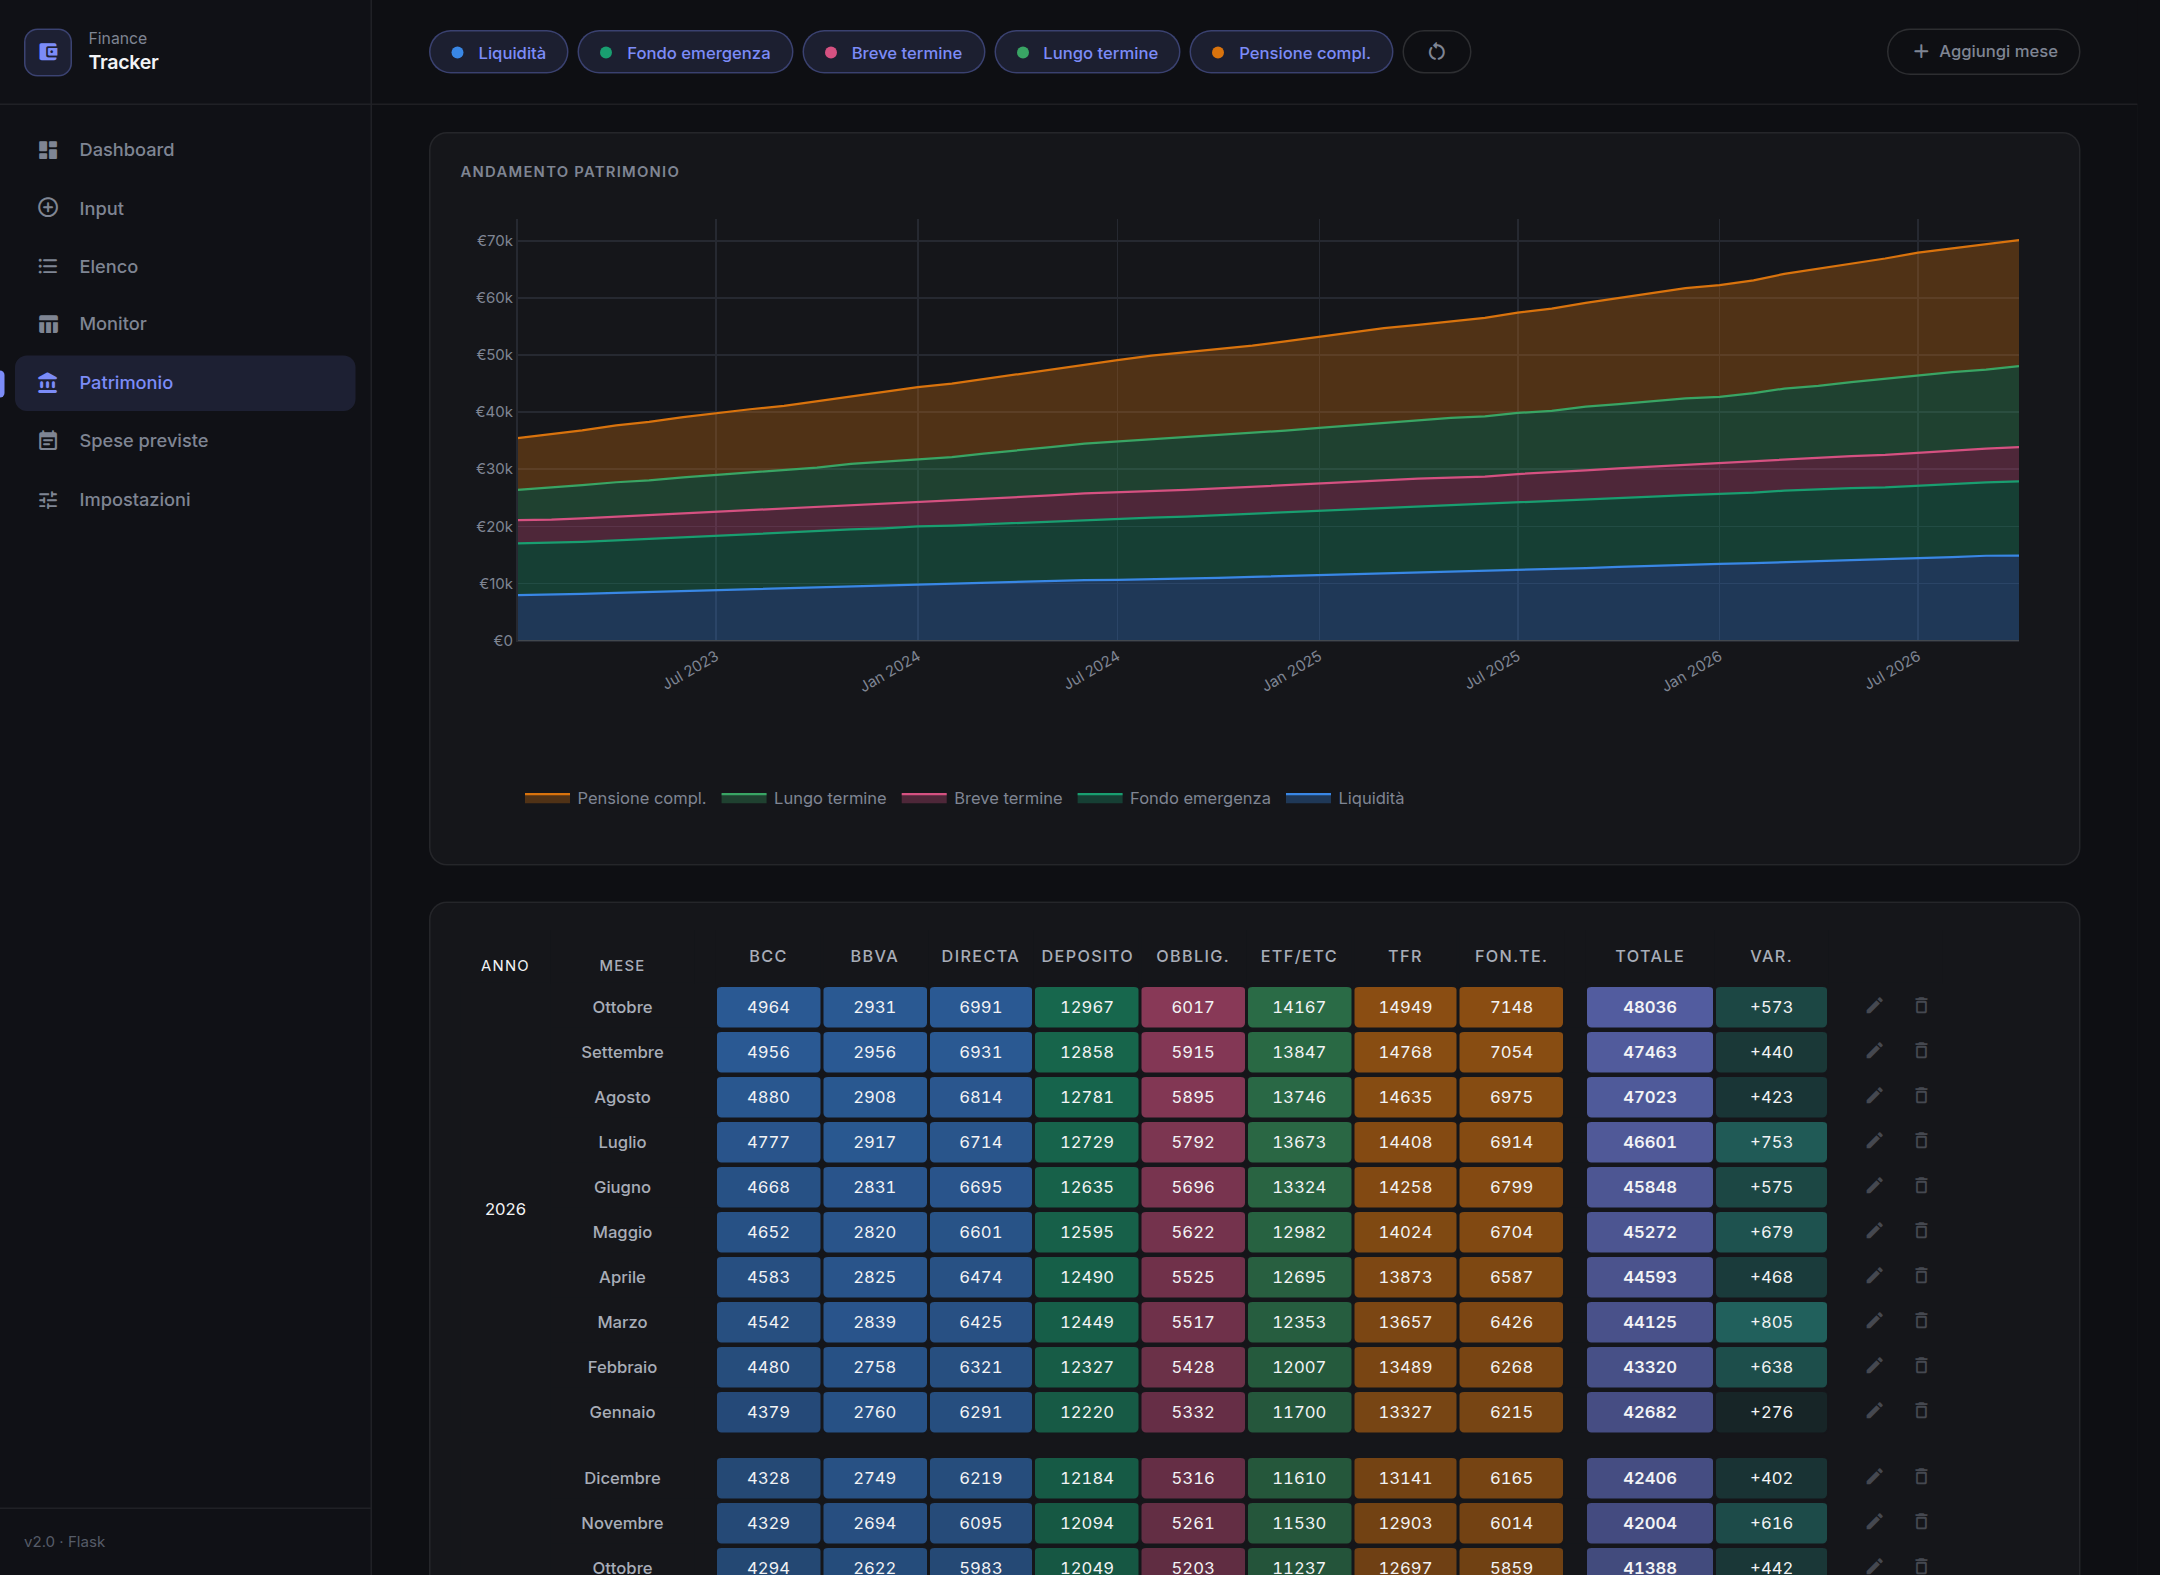
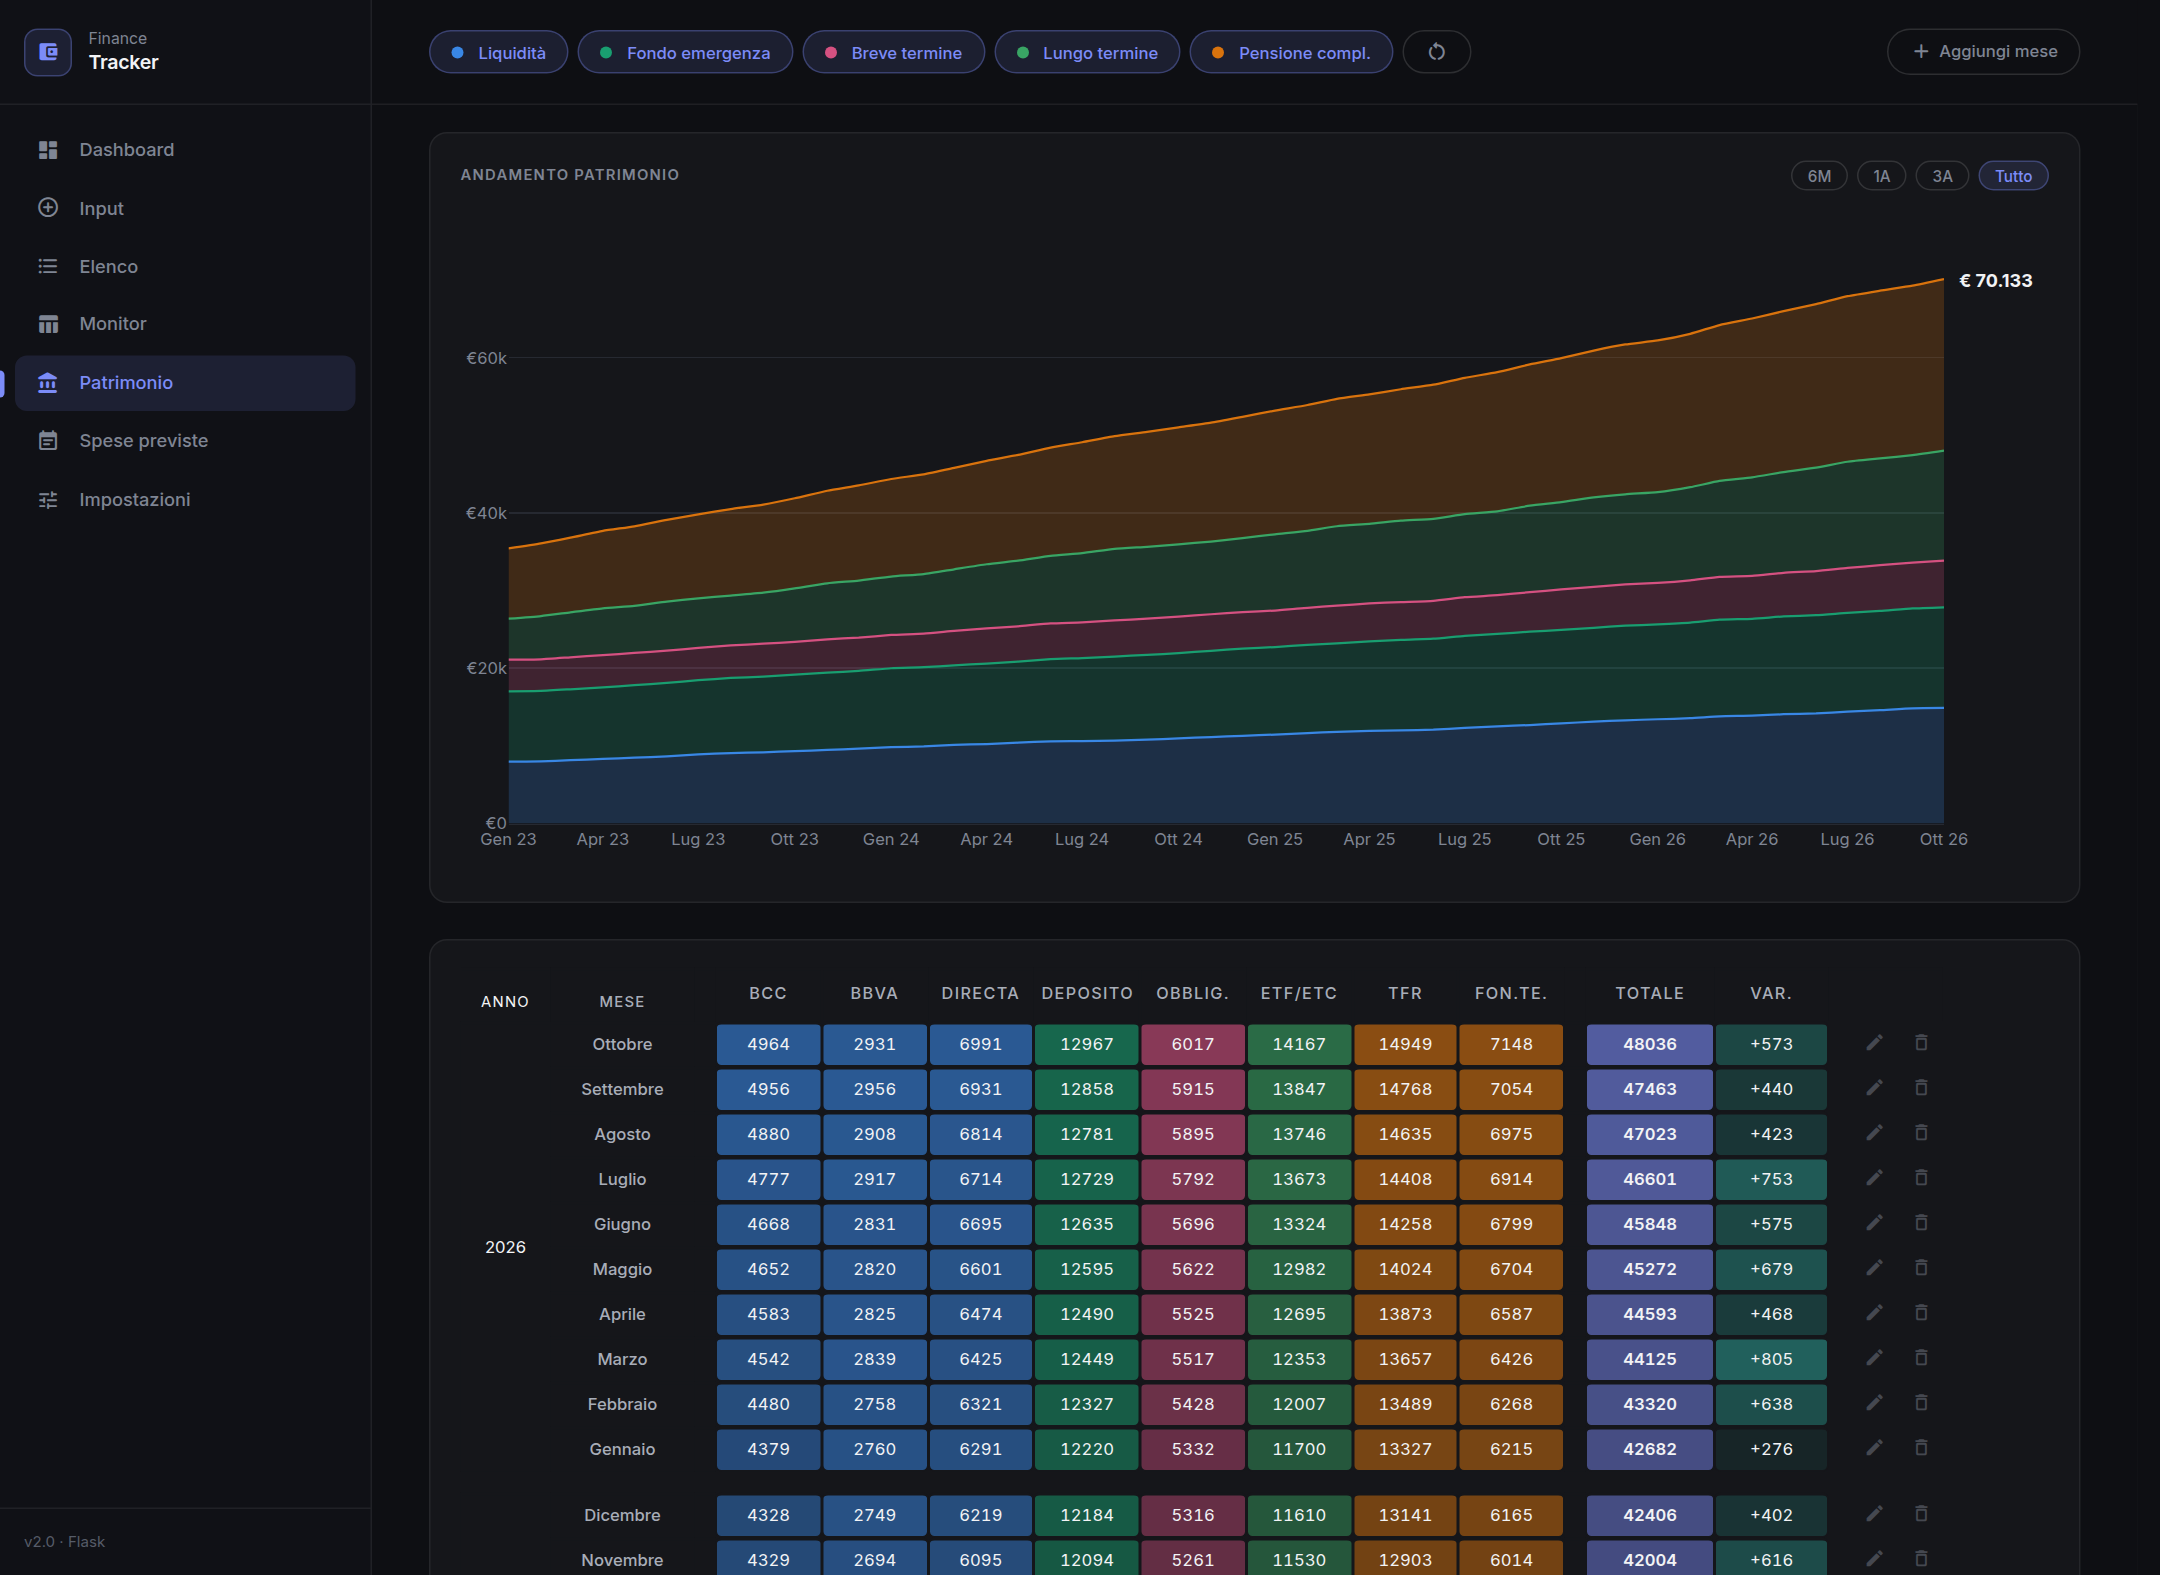
Patrimonio: grafico modernizzato (linee morbide, totale sull'ultimo punto, periodo 6M/1A/3A/Tutto) e più leggibile su smartphone

diff --git a/templates/patrimonio.html b/templates/patrimonio.html
@@ -1,8 +1,12 @@
 {% extends "base.html" %}
 {% block title %}Patrimonio — Finance Tracker{% endblock %}
 
+{% block head %}
+<script src="https://cdn.plot.ly/plotly-locale-it-2.32.0.js"></script>
+{% endblock %}
+
 {% block page_bar %}
-<div class="page-bar" id="el-bar">
+<div class="page-bar page-bar-scroll" id="el-bar">
     {% if rows %}
     <div class="period-btns" id="comp-toggles">
         {% for key, label in [('liquidita', 'Liquidità'), ('emergenza', 'Fondo emergenza'), ('breve', 'Breve termine'),
@@ -27,8 +31,16 @@
 {% else %}
 
 <div class="chart-card mb-24">
-    <div class="chart-title">Andamento patrimonio</div>
-    <div id="chart-patrimonio" style="height:420px"></div>
+    <div class="chart-title pat-chart-head">
+        <span>Andamento patrimonio</span>
+        <div class="period-btns" id="pat-range" style="margin:0">
+            {% for v, lab in [('6', '6M'), ('12', '1A'), ('36', '3A'), ('all', 'Tutto')] %}
+            <button type="button" class="period-btn {% if v == 'all' %}active{% endif %}" data-range="{{ v }}"
+                    style="padding:3px 10px;font-size:0.68rem;font-family:inherit">{{ lab }}</button>
+            {% endfor %}
+        </div>
+    </div>
+    <div id="chart-patrimonio"></div>
 </div>
 
 <div class="chart-card">
@@ -133,25 +145,13 @@
 const raw = {{ chart_data|safe }};
 const _PL = PALETTE.plot;
 const _PP = PALETTE.patrimonio;
-const CFG  = { responsive: true, displayModeBar: false };
-
-const BASE_LAYOUT = {
-    paper_bgcolor: _PL.bg, plot_bgcolor: _PL.bg,
-    font: { family: 'Inter, sans-serif', color: _PL.text, size: 11 },
-    margin: { l: 10, r: 20, t: 10, b: 50 },
-    xaxis: { gridcolor: _PL.grid, linecolor: _PL.grid, tickfont: { size: 10 }, tickangle: -30 },
-    yaxis: { gridcolor: _PL.grid, linecolor: _PL.grid, tickfont: { size: 10 }, tickprefix: '€', autorange: true, automargin: true },
-    legend: { orientation: 'h', y: -0.32, font: { size: 11 }, bgcolor: 'transparent' },
-    hovermode: 'x unified',
-    hoverlabel: { bgcolor: _PL.hover_bg, bordercolor: _PL.hover_border, font: { color: _PL.hover_text, size: 12 } },
-};
 
 function hexAlpha(hex, a) {
     const r = parseInt(hex.slice(1,3),16), g = parseInt(hex.slice(3,5),16), b = parseInt(hex.slice(5,7),16);
     return `rgba(${r},${g},${b},${a})`;
 }
 
-// Component definitions: key, label, color
+// Componenti: chiave, etichetta, colore (gli stessi delle pillole in alto e della tabella)
 const COMP_DEFS = [
     { key: 'liquidita',  label: 'Liquidità',         color: _PP.liquidita  },
     { key: 'emergenza',  label: 'Fondo emergenza',    color: _PP.conto      },
@@ -160,44 +160,72 @@ const COMP_DEFS = [
     { key: 'previdenza', label: 'Pensione compl.',    color: _PP.previdenza },
 ];
 
-// Build all stacked area traces (one per component)
-const allTraces = COMP_DEFS.map(c => ({
-    type: 'scatter', mode: 'lines',
-    stackgroup: 'one',
-    x: raw.labels, y: raw[c.key],
-    name: c.label,
-    fill: 'tonexty',
-    fillcolor: hexAlpha(c.color, 0.30),
-    line: { color: c.color, width: 1.5 },
-    hovertemplate: '€ %{y:.0f}<extra>' + c.label + '</extra>',
-    visible: true,
-}));
+const dates = raw.labels.map(l => l + '-01');           // 'YYYY-MM' -> primo del mese
+const fmtEur = v => '€ ' + Math.round(v).toLocaleString('it-IT');
+const mobileMQ = window.matchMedia('(max-width: 768px)');
+let rangeMonths = null;                                  // null = tutto lo storico
+
+// Finestra temporale scelta con le pillole 6M / 1A / 3A / Tutto.
+function visibleStart() {
+    if (!rangeMonths) return 0;
+    const last = new Date(dates[dates.length - 1]);
+    last.setMonth(last.getMonth() - rangeMonths);
+    const i = dates.findIndex(d => new Date(d) >= last);
+    return i < 0 ? 0 : i;
+}
 
 function renderChart() {
-    const checked = new Set(
-        Array.from(document.querySelectorAll('.comp-pill.active')).map(el => el.dataset.key)
-    );
-    const traces = allTraces.map(t => {
-        const key = COMP_DEFS.find(c => c.label === t.name).key;
-        return { ...t, visible: checked.has(key) ? true : 'legendonly' };
-    });
-    // "Totale" entry in the unified hover box: sum of only the currently shown
-    // categories. Width-0 line → no extra line drawn on the chart, but it still
-    // contributes its value to the x-unified hover tooltip.
-    const activeKeys = COMP_DEFS.filter(c => checked.has(c.key)).map(c => c.key);
-    const totals = raw.labels.map((_, i) =>
-        activeKeys.reduce((sum, k) => sum + (raw[k][i] || 0), 0)
-    );
+    const mobile = mobileMQ.matches;
+    const checked = new Set(Array.from(document.querySelectorAll('.comp-pill.active')).map(el => el.dataset.key));
+    const active = COMP_DEFS.filter(c => checked.has(c.key));
+
+    // Area impilate: linee sottili e morbide, riempimento leggero. Niente legenda: le pillole
+    // in alto (con il pallino del colore) fanno da legenda e da interruttori.
+    const traces = COMP_DEFS.map(c => ({
+        type: 'scatter', mode: 'lines', stackgroup: 'one', name: c.label,
+        x: dates, y: raw[c.key], visible: checked.has(c.key),
+        fill: 'tonexty', fillcolor: hexAlpha(c.color, 0.22),
+        line: { color: c.color, width: 1.5, shape: 'spline', smoothing: 0.5 },
+        customdata: raw[c.key].map(fmtEur),
+        hovertemplate: '%{customdata}<extra>' + c.label + '</extra>',
+    }));
+
+    // Totale delle sole componenti visibili: compare nel riquadro del cursore (linea di
+    // spessore 0, non disegnata) e come etichetta sull'ultimo punto.
+    const totals = dates.map((_, i) => active.reduce((sum, c) => sum + (raw[c.key][i] || 0), 0));
     traces.push({
-        type: 'scatter', mode: 'lines',
-        x: raw.labels, y: totals,
-        name: 'Totale',
-        line: { color: _PL.text, width: 0 },
-        hovertemplate: '<b>€ %{y:.0f}</b><extra>Totale</extra>',
-        showlegend: false,
-        visible: true,
+        type: 'scatter', mode: 'lines', name: 'Totale', x: dates, y: totals,
+        line: { color: _PL.text, width: 0 }, showlegend: false,
+        customdata: totals.map(fmtEur),
+        hovertemplate: '<b>%{customdata}</b><extra>Totale</extra>',
     });
-    Plotly.react('chart-patrimonio', traces, { ...BASE_LAYOUT, height: 420 }, CFG);
+
+    const i0 = visibleStart(), last = dates.length - 1;
+    const ymax = Math.max(0, ...totals.slice(i0)) * 1.08;
+    const axisFont = { size: mobile ? 10 : 11, color: _PL.text };
+
+    Plotly.react('chart-patrimonio', traces, {
+        paper_bgcolor: _PL.bg, plot_bgcolor: _PL.bg, autosize: true,
+        font: { family: 'Inter, sans-serif', color: _PL.text, size: 11 },
+        margin: mobile ? { l: 4, r: 10, t: 14, b: 26 } : { l: 4, r: 70, t: 16, b: 32 },
+        showlegend: false, dragmode: false, hovermode: 'x unified',
+        hoverlabel: { bgcolor: _PL.hover_bg, bordercolor: _PL.hover_border, font: { color: _PL.hover_text, size: mobile ? 11 : 12 } },
+        xaxis: {
+            type: 'date', range: [dates[i0], dates[last]], hoverformat: '%B %Y',
+            tickformat: '%b %y', dtick: mobile ? 'M6' : 'M3', tickangle: 0, tickfont: axisFont,
+            showgrid: false, linecolor: _PL.grid, ticks: '', fixedrange: true,
+        },
+        yaxis: {
+            range: ymax > 0 ? [0, ymax] : undefined, tickprefix: '€', tickformat: '.2~s', nticks: mobile ? 5 : 7,
+            tickfont: axisFont, gridcolor: _PL.grid, zeroline: false, showline: false, ticks: '',
+            automargin: true, fixedrange: true,
+        },
+        annotations: totals[last] > 0 ? [{
+            x: dates[last], y: totals[last], text: '<b>' + fmtEur(totals[last]) + '</b>', showarrow: false,
+            font: { size: mobile ? 11 : 12, color: '#f2f3f5' },
+            ...(mobile ? { xanchor: 'right', yanchor: 'bottom', yshift: 6 } : { xanchor: 'left', yanchor: 'middle', xshift: 8 }),
+        }] : [],
+    }, { responsive: true, displayModeBar: false, scrollZoom: false, locale: 'it' });
 }
 
 function resetCompToggles() {
@@ -211,6 +239,14 @@ document.querySelectorAll('.comp-pill').forEach(btn => {
     btn.querySelector('.pill-dot').style.background = def.color;
     btn.addEventListener('click', () => { btn.classList.toggle('active'); renderChart(); });
 });
+
+// Pillole periodo
+document.querySelectorAll('#pat-range .period-btn').forEach(btn => btn.addEventListener('click', () => {
+    document.querySelectorAll('#pat-range .period-btn').forEach(b => b.classList.toggle('active', b === btn));
+    rangeMonths = btn.dataset.range === 'all' ? null : +btn.dataset.range;
+    renderChart();
+}));
+mobileMQ.addEventListener('change', renderChart);       // rotazione / cambio di larghezza
 
 renderChart();
 

diff --git a/static/css/style.css b/static/css/style.css
@@ -920,3 +920,16 @@ select.bar-field.active-field { background: var(--accent-wash); border-color: va
 .logout-link { display: inline-flex; align-items: center; gap: 4px; color: var(--text-muted); text-decoration: none; font-size: 0.7rem; }
 .logout-link:hover { color: var(--text); }
 .logout-link .material-icons-round { font-size: 0.95rem; }
+
+/* Patrimonio: grafico più basso su telefono, barra comandi su una sola riga scorrevole */
+#chart-patrimonio { height: 440px; }
+@media (max-width: 768px) {
+    #chart-patrimonio { height: 300px; }
+    .page-bar-scroll { flex-wrap: nowrap; overflow-x: auto; -webkit-overflow-scrolling: touch; scrollbar-width: none; gap: 8px 12px; }
+    .page-bar-scroll::-webkit-scrollbar { display: none; }
+    .page-bar-scroll .period-btns { flex-wrap: nowrap; flex-shrink: 0; }
+    .page-bar-scroll .bar-link { margin-left: 0; flex-shrink: 0; }
+}
+.pat-chart-head { display: flex; align-items: center; justify-content: space-between; flex-wrap: wrap; gap: 8px 10px; }
+.pat-chart-head > span { white-space: nowrap; }
+.pat-chart-head .period-btns { flex-wrap: nowrap; margin-left: auto; }

diff --git a/scripts/screenshots.py b/scripts/screenshots.py
@@ -40,6 +40,7 @@ SHOTS = [
     ('planned', '/previste', 1440, 820, []),
     ('settings', '/impostazioni', 1440, 1000, []),
     ('mobile-dashboard', '/', 390, 1500, []),
+    ('mobile-net-worth', '/patrimonio', 390, 760, []),
 ]
 
 

diff --git a/README.md b/README.md
@@ -108,10 +108,15 @@ exceeds income in the selected period the app says so and points to the flow vie
 
 ### Net worth (Patrimonio)
 
-Toggle the components on the stacked area chart with the pills at the top; the table below uses the
-same colours as the chart, with intensity scaled per column.
+Toggle the components on the stacked area chart with the pills at the top and pick the time window
+with **6M / 1Y / 3Y / All**; the total of the visible components is labelled on the last point and
+shown in the hover box. The table below uses the same colours as the chart, with intensity scaled per
+column. On a phone the chart is shorter, uses sparser ticks and ignores touch drags so it never hijacks
+page scrolling, and the command bar becomes a single swipeable row.
 
 ![Net worth](docs/screenshots/net-worth.png)
+
+<img src="docs/screenshots/mobile-net-worth.png" alt="Net worth on mobile" width="300">
 
 ### Planned expenses (Spese previste)
 
